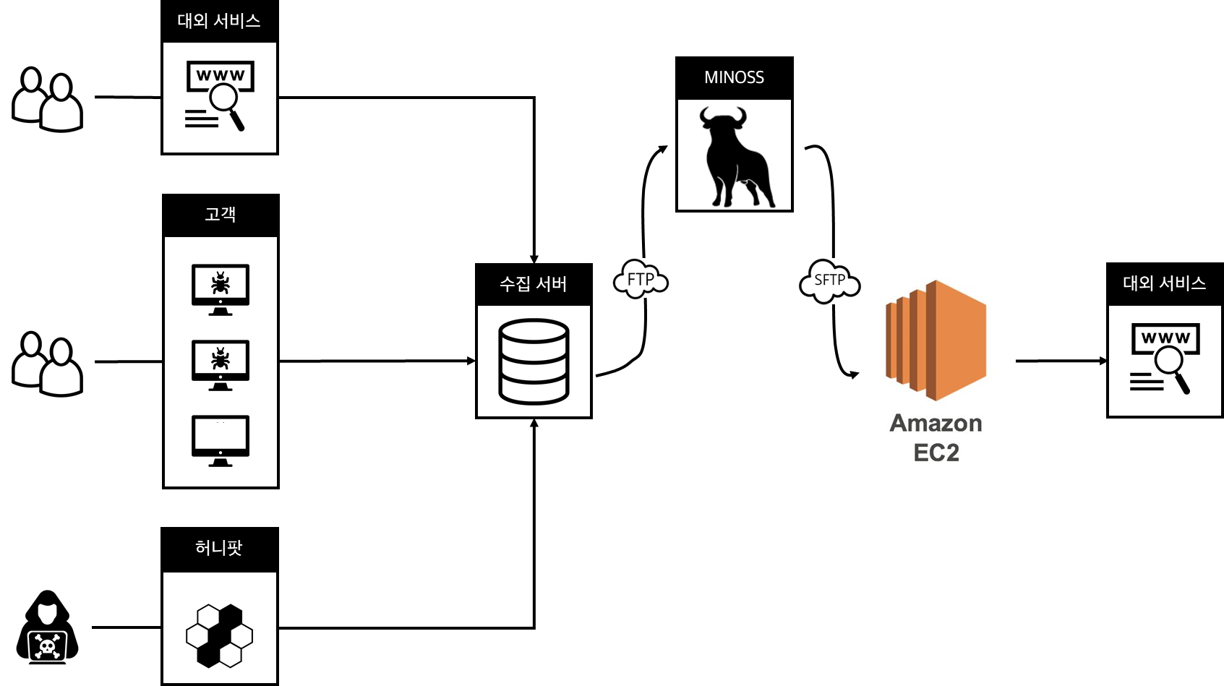
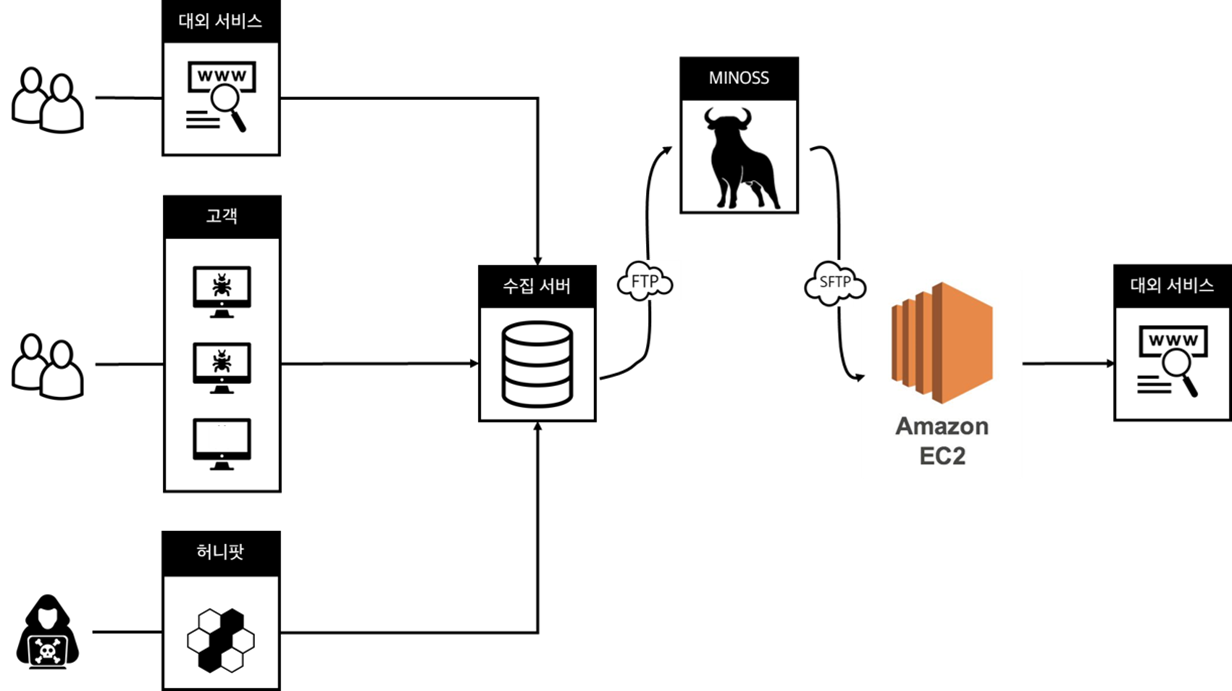
오타 수정 및 그림 투명도 없앰

diff --git a/_posts/2020-04-13-python_ftp.md b/_posts/2020-04-13-python_ftp.md
@@ -7,7 +7,7 @@ tags: [python]
 ---
 ## 개요
 
-누리랩에서는 악성코드를 수집하고 이를 분석한 뒤 유사도를 이용한 악성코드 탐지 정보를 아마존 EC2에 업로드한다. 누리랩의 주요 제품들은 이 정보를 다운로드 하여 악성코드 차단을 수행하게 되된다.
+누리랩에서는 악성코드를 수집하고 이를 분석한 뒤 유사도를 이용한 악성코드 탐지 정보를 아마존 EC2에 업로드한다. 누리랩의 주요 제품들은 이 정보를 다운로드 하여 악성코드 차단을 수행하게 된다.
 
 악성코드는 아래 그림에서 보듯이 고객 또는 누리랩의 제품 서비스 그리고 허니팟등을 이용해 수집 서버에 파일을 모아두게 되는데 이는 FTP 접속을 통해 악성코드를 내려 받을 수 있다. 하지만 아마존 EC2는 SFTP를 통해 악성코드 유사도 정보를 업로드해야 한다.
 
